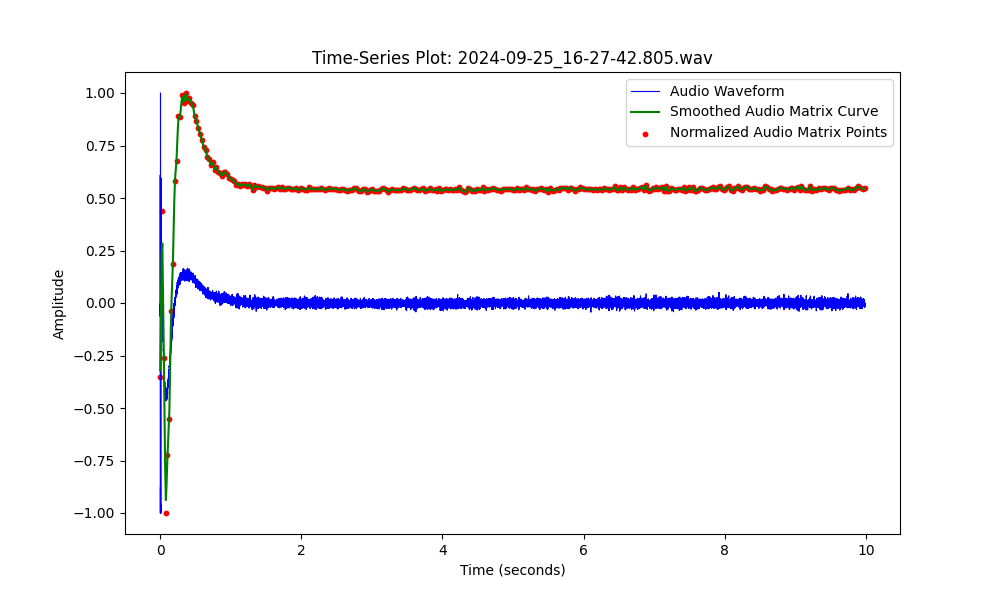
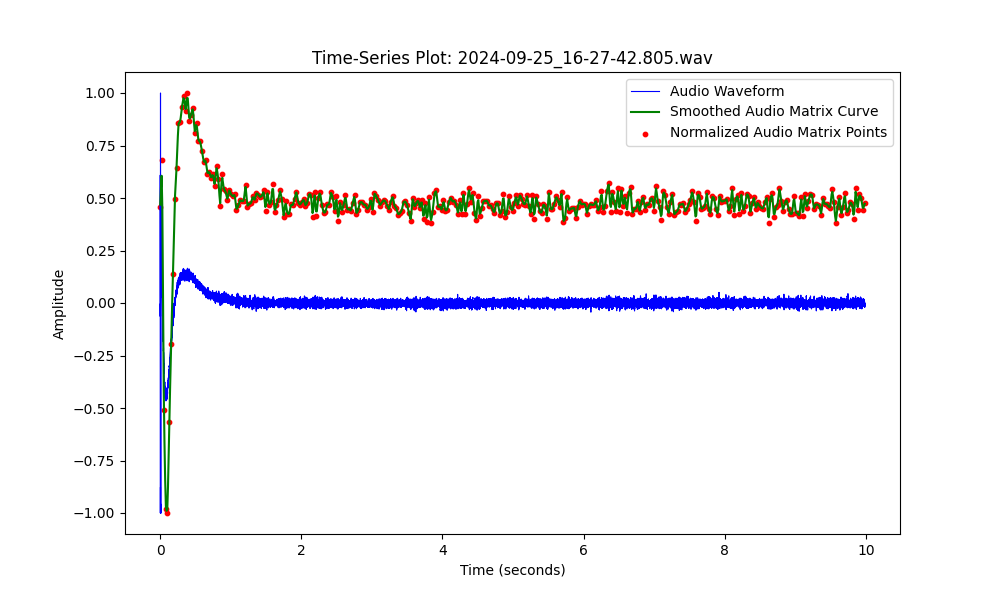
multiple resampliing methords added

Changed region(s): [[0.155, 0.15, 0.868, 0.87]]

diff --git a/data_capture/wav_to_matrix.py b/data_capture/wav_to_matrix.py
@@ -3,21 +3,93 @@ import numpy as np
 import csv
 import librosa
 from datetime import datetime
+from scipy import signal
+from scipy.interpolate import interp1d
+from scipy.fftpack import fft, ifft
 
-def wav_to_matrix_librosa(wav_file, target_sr):
+def wav_to_matrix_librosa(wav_file, target_sr, method="linear"):
     """
-    Load WAV file using librosa and resample it to the target sampling rate.
+    Load WAV file using librosa, resample it to the target sampling rate using the selected method.
 
     Args:
         wav_file (str): Path to the input WAV file.
         target_sr (int): The target sampling rate to resample the audio.
+        method (str): Resampling method. Choices are: 'nearest', 'linear', 'polynomial', 'sinc', 'fft', 'bspline', 'polyphase'.
 
     Returns:
         audio_array (np.ndarray): The resampled audio data.
         sr (int): The actual sampling rate used by librosa (should match target_sr).
     """
-    audio_array, sr = librosa.load(wav_file, sr=target_sr)
-    return audio_array, sr
+    # Load the audio file
+    audio_array, sr = librosa.load(wav_file, sr=None)  # Load at original sampling rate
+
+    if sr == target_sr:
+        return audio_array, sr  # No resampling needed
+
+    if method == "nearest":
+        # Nearest-neighbor resampling
+        audio_resampled = signal.resample_poly(audio_array, target_sr, sr, window=('boxcar'))
+    elif method == "linear":
+        # Linear interpolation
+        duration = len(audio_array) / sr
+        time_old = np.linspace(0, duration, len(audio_array))
+        time_new = np.linspace(0, duration, int(duration * target_sr))
+        audio_resampled = np.interp(time_new, time_old, audio_array)
+    elif method == "polynomial":
+        # Polynomial interpolation (e.g., cubic)
+        duration = len(audio_array) / sr
+        time_old = np.linspace(0, duration, len(audio_array))
+        time_new = np.linspace(0, duration, int(duration * target_sr))
+        interpolator = interp1d(time_old, audio_array, kind='cubic')
+        audio_resampled = interpolator(time_new)
+    elif method == "sinc":
+        # Sinc interpolation (using signal.resample)
+        audio_resampled = signal.resample(audio_array, int(len(audio_array) * target_sr / sr))
+    elif method == "fft":
+        # FFT-based resampling
+        audio_fft = fft(audio_array)
+        audio_resampled_fft = signal.resample(audio_fft, int(len(audio_array) * target_sr / sr))
+        audio_resampled = np.real(ifft(audio_resampled_fft))
+    elif method == "bspline":
+        # B-spline interpolation
+        audio_resampled = signal.resample_poly(audio_array, target_sr, sr, window='hamming')
+    elif method == "polyphase":
+        # Polyphase filtering
+        audio_resampled = signal.resample_poly(audio_array, target_sr, sr)
+    else:
+        raise ValueError(f"Unknown resampling method: {method}")
+
+    return audio_resampled, target_sr
+
+def choose_resampling_method():
+    """
+    Prompt the user to select a resampling method by displaying options with descriptions.
+
+    Returns:
+        method (str): The chosen resampling method.
+    """
+    print("Choose a resampling method:")
+    print("1. Nearest-neighbor: Fastest but lowest fidelity, often used for low-latency applications.")
+    print("2. Linear interpolation: Moderate fidelity and speed, good for general-purpose use.")
+    print("3. Polynomial interpolation: Higher fidelity but slower than linear, suitable for smooth data.")
+    print("4. Sinc interpolation: High fidelity, ideal for high-quality audio but slower to compute.")
+    print("5. FFT-based resampling: High precision, especially for large signals, but computationally expensive.")
+    print("6. B-spline interpolation: High fidelity, with smooth transitions, good for continuous signals.")
+    print("7. Polyphase filtering: Efficient for multirate systems, a good trade-off between speed and quality.")
+
+    choice = input("Enter the number corresponding to your choice (1-7): ")
+
+    methods = {
+        "1": "nearest",
+        "2": "linear",
+        "3": "polynomial",
+        "4": "sinc",
+        "5": "fft",
+        "6": "bspline",
+        "7": "polyphase"
+    }
+
+    return methods.get(choice, "linear")  # Default to linear if invalid choice
 
 def load_csi_data(csi_file):
     """
@@ -97,7 +169,7 @@ def save_matrix_to_csv(matrix, csv_file):
             for row in matrix:
                 writer.writerow(row)
 
-def convert_all_wavs_to_csv(audio_dir, output_dir, csi_dir):
+def convert_all_wavs_to_csv(audio_dir, output_dir, csi_dir, resampling_method):
     """
     Convert all WAV files in a directory to CSV files after resampling to the target CSI sampling rate.
 
@@ -105,6 +177,7 @@ def convert_all_wavs_to_csv(audio_dir, output_dir, csi_dir):
         audio_dir (str): Directory containing the WAV files.
         output_dir (str): Directory to save the converted CSV files.
         csi_dir (str): Directory containing the corresponding CSI data files.
+        resampling_method (str): Resampling method to use.
     """
     os.makedirs(output_dir, exist_ok=True)
     
@@ -126,12 +199,12 @@ def convert_all_wavs_to_csv(audio_dir, output_dir, csi_dir):
             print(f"Calculated CSI sampling rate for {filename}: {csi_sampling_rate:.2f} Hz")
 
             # Resample the audio to match the CSI sampling rate
-            audio_matrix, sr = wav_to_matrix_librosa(wav_path, int(csi_sampling_rate))
+            audio_matrix, sr = wav_to_matrix_librosa(wav_path, int(csi_sampling_rate), method=resampling_method)
 
             # Save the matrix as a CSV file
             output_csv_path = os.path.join(output_dir, csv_filename)
             save_matrix_to_csv(audio_matrix, output_csv_path)
-            print(f"Converted and saved: {output_csv_path} (Resampled to {csi_sampling_rate:.2f} Hz)")
+            print(f"Converted and saved: {output_csv_path} (Resampled to {csi_sampling_rate:.2f} Hz using {resampling_method})")
 
 if __name__ == "__main__":
     # Define directories for audio files, CSI data, and output
@@ -139,5 +212,8 @@ if __name__ == "__main__":
     csi_dir = 'data_capture/csi'
     output_dir = 'data_capture/audio_matrix'
 
+    # User chooses the resampling method
+    resampling_method = choose_resampling_method()
+
     # Convert all wav files to CSV, resampling to match CSI sampling rate
-    convert_all_wavs_to_csv(audio_dir, output_dir, csi_dir)
+    convert_all_wavs_to_csv(audio_dir, output_dir, csi_dir, resampling_method)
